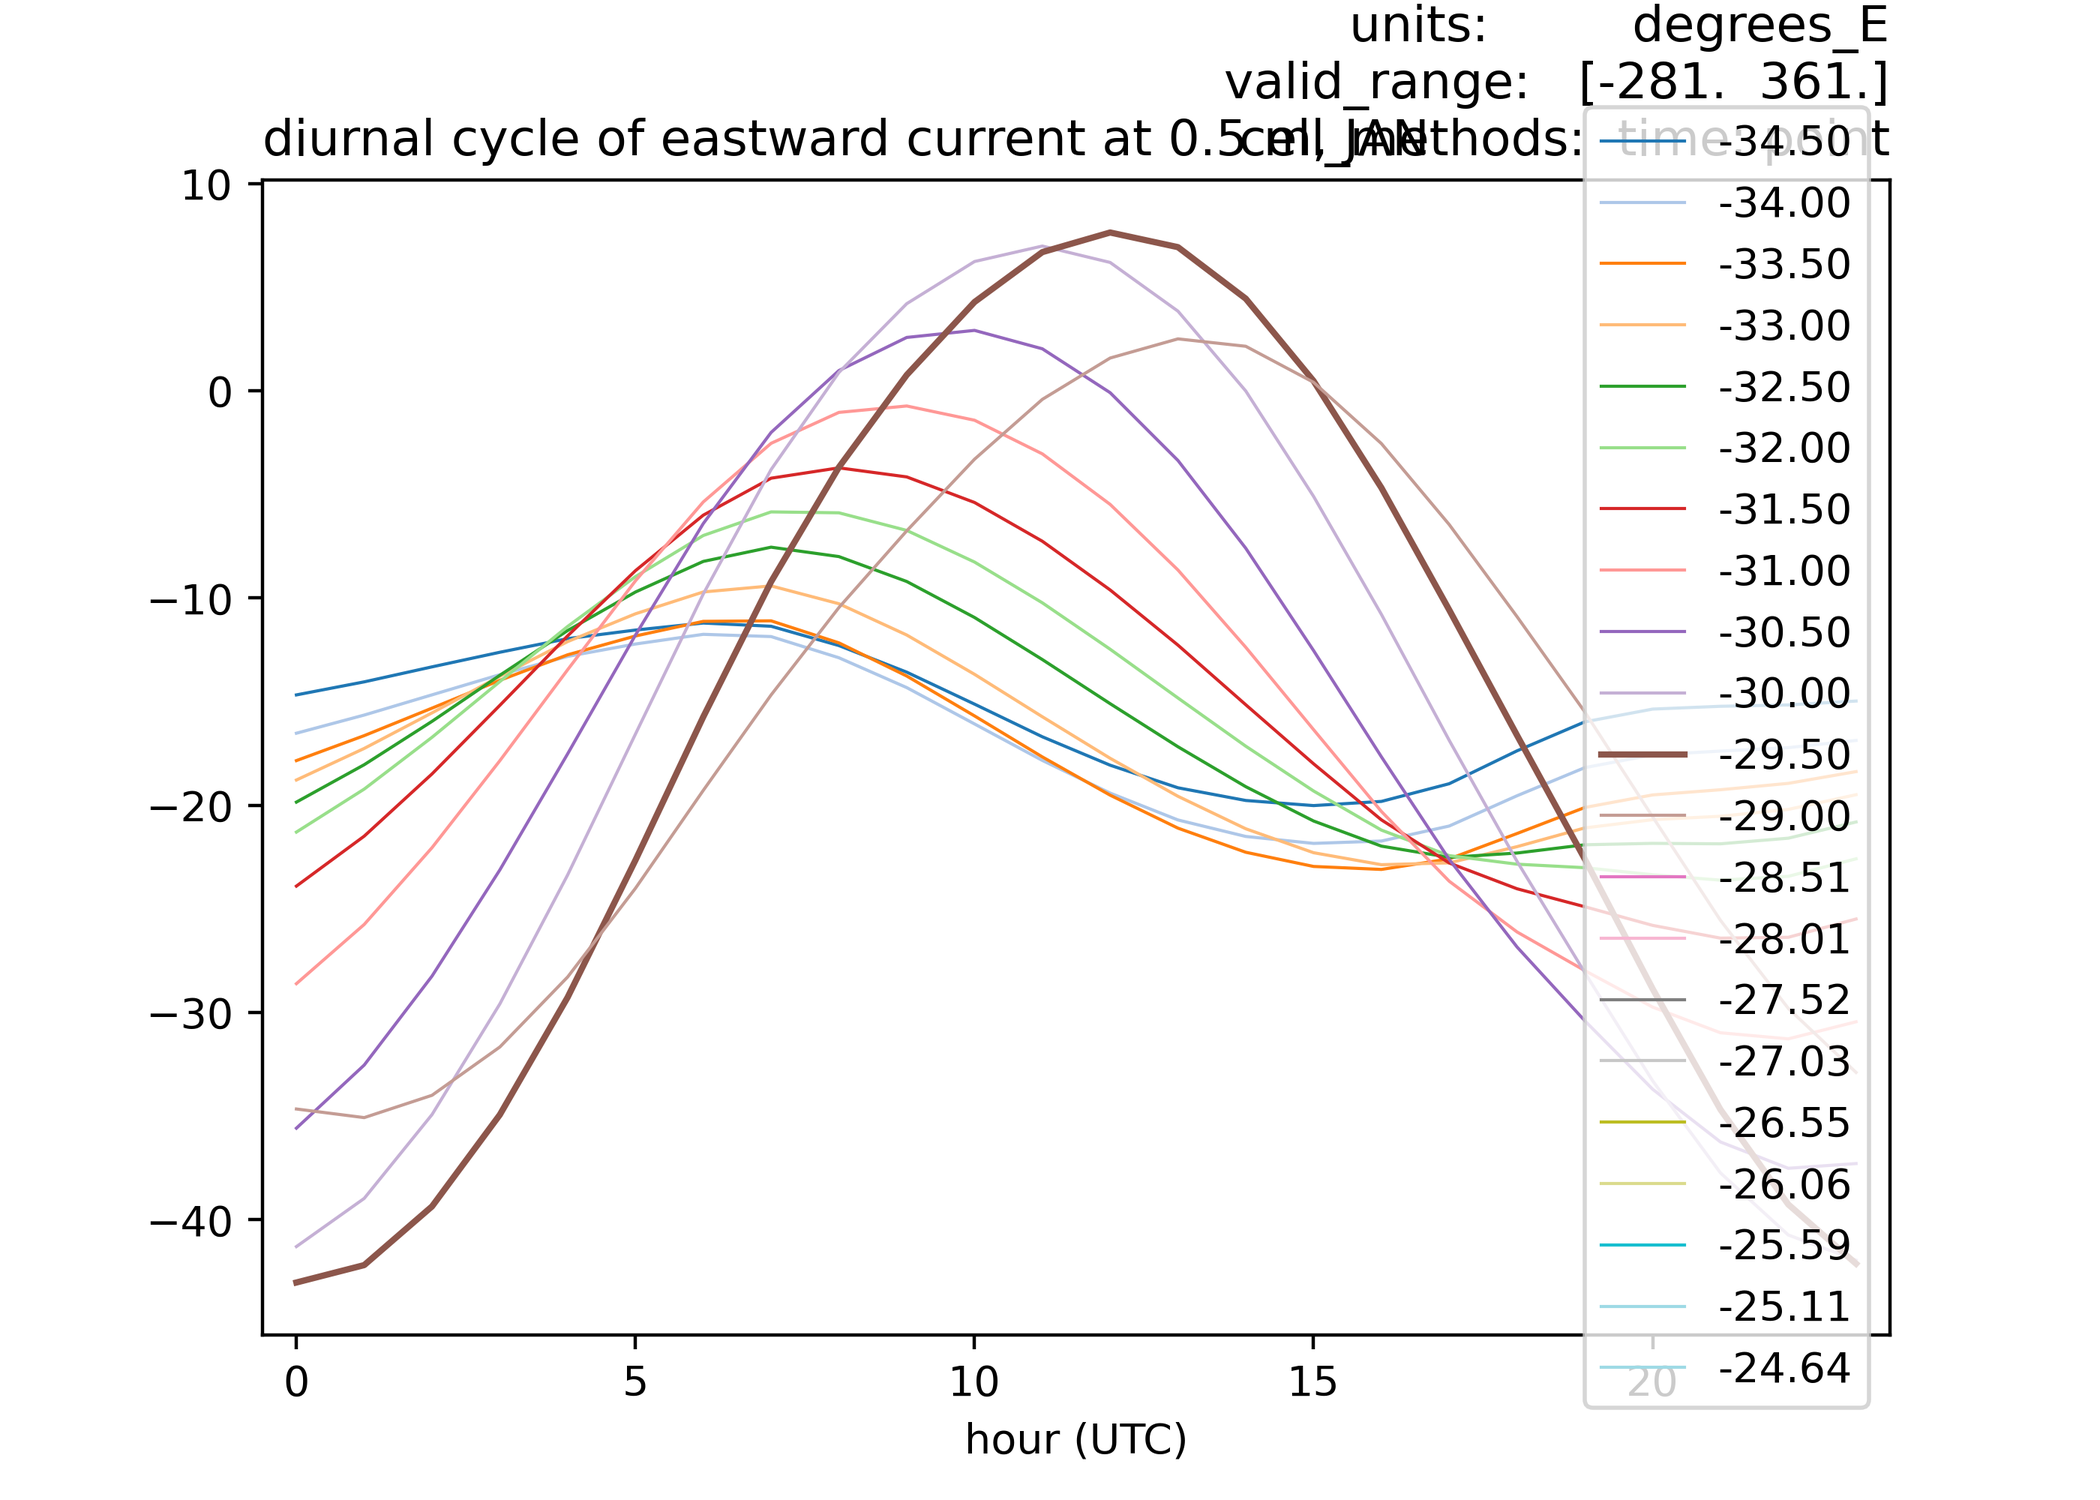
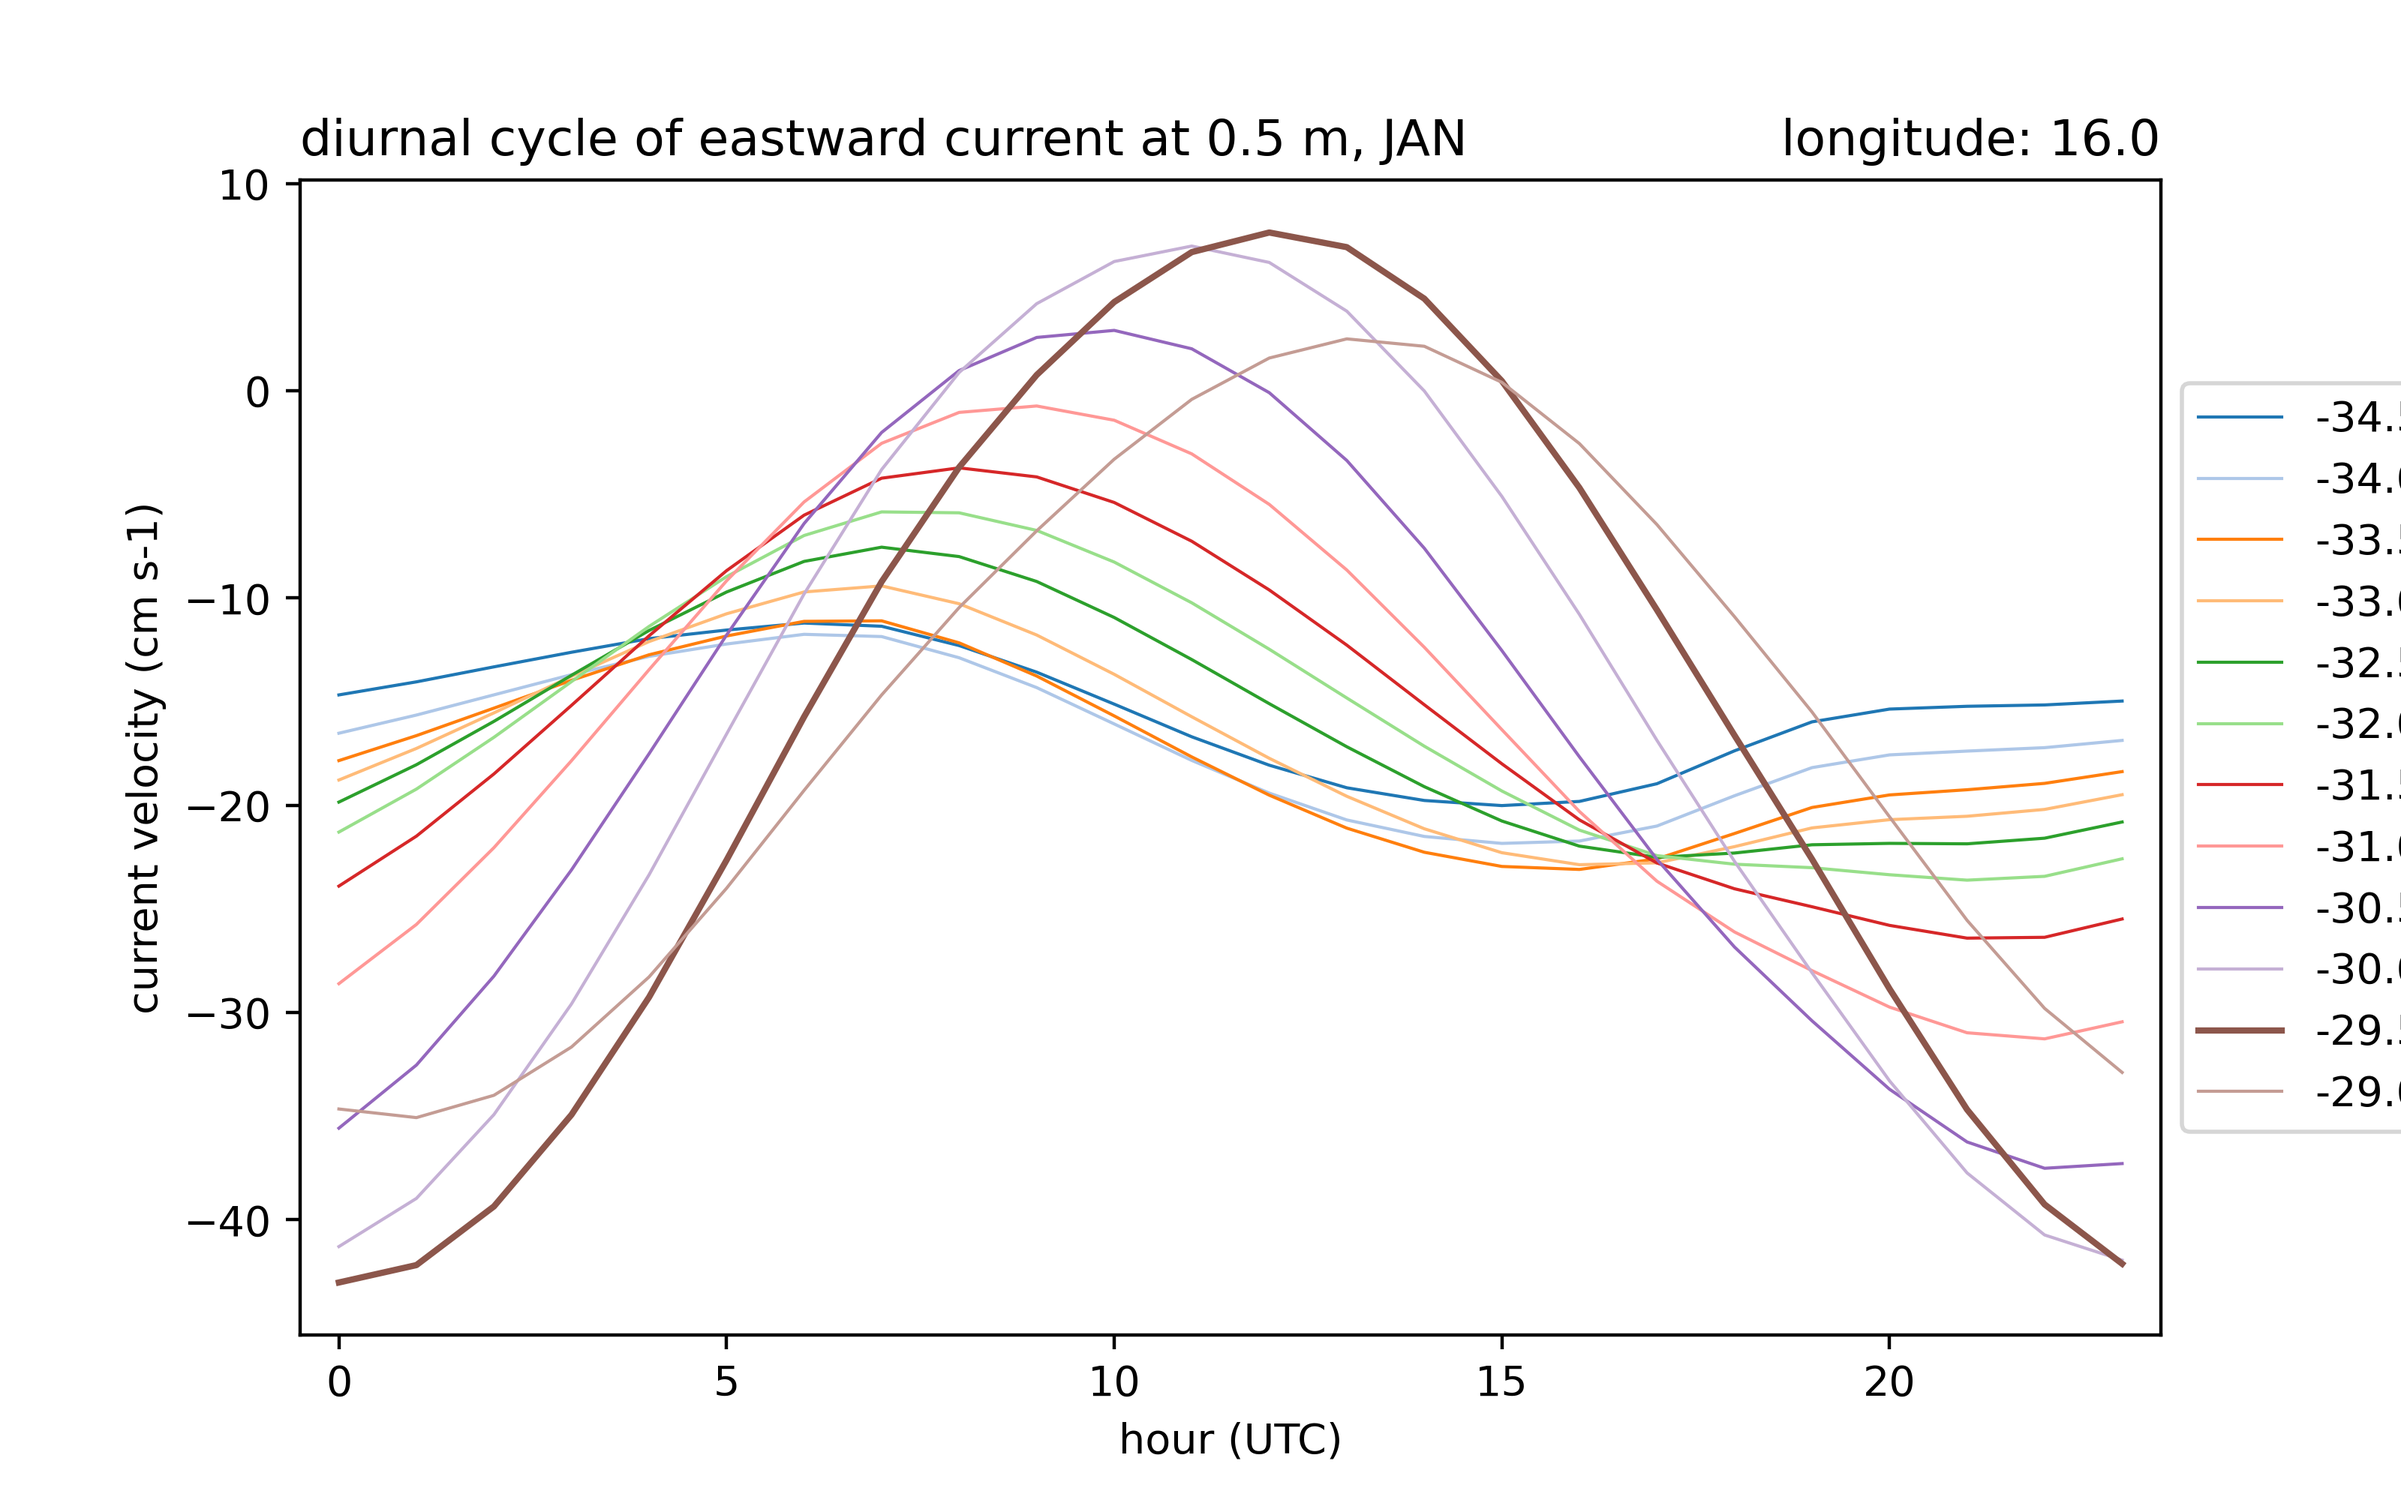
Improves current check timeseries.

diff --git a/diurnal_cycle/analysis/current_check_point_timeseries.py b/diurnal_cycle/analysis/current_check_point_timeseries.py
@@ -97,9 +97,10 @@ def main(plot_month, plot_var):
         sys.exit('plot_var not recognized.')
     
     # Set up figure and axes.
-    fig, ax = plt.subplots(1, 1, figsize=(7, 5))
+    fig, ax = plt.subplots(1, 1, figsize=(8, 5))
     ax.set_xlim(-0.5, 23.5)
     ax.set_xlabel('hour (UTC)')
+    ax.set_ylabel('current velocity (cm s-1)')
 
     # Define color map.
     cmap_b = cm.get_cmap('tab20')
@@ -107,17 +108,20 @@ def main(plot_month, plot_var):
     # Plot data.
     for ilat, lat in enumerate(ds.yu_ocean.data):
         lnwid = 1.5 if lat == max_point.yu_ocean.data[0] else 0.75
-        ax.plot(ds.hour.data,
-                ds[plot_var].sel(yu_ocean=lat).data,
-                color=cmap_b(ilat), linewidth=lnwid,
-                label="{:+.2f}".format(ds.geolat_c.sel(yu_ocean=lat).data))
+        if np.all(np.isnan(ds[plot_var].sel(yu_ocean=lat).data)):
+            continue
+        else:
+            ax.plot(ds.hour.data,
+                    ds[plot_var].sel(yu_ocean=lat).data,
+                    color=cmap_b(ilat), linewidth=lnwid,
+                    label="{:+.2f}".format(ds.geolat_c.sel(yu_ocean=lat).data))
     
     # Finish up figure.
     ax.set_title(plot_title, loc='left')
     ax.set_title('longitude: ' + 
-                 str(ds.geolon_c.sel(yu_ocean=max_point.yu_ocean.data[0])), 
+                 str(ds.geolon_c.sel(yu_ocean=max_point.yu_ocean.data[0]).data), 
                  loc='right')
-    ax.legend(ncol=1, loc='right')
+    ax.legend(ncol=1, loc='center left', bbox_to_anchor=(1.0, 0.5))
     
     # Save file.
     plotdir = '/ncrc/home2/Jack.Reeveseyre/cfs-analysis/diurnal_cycle/plots/'
